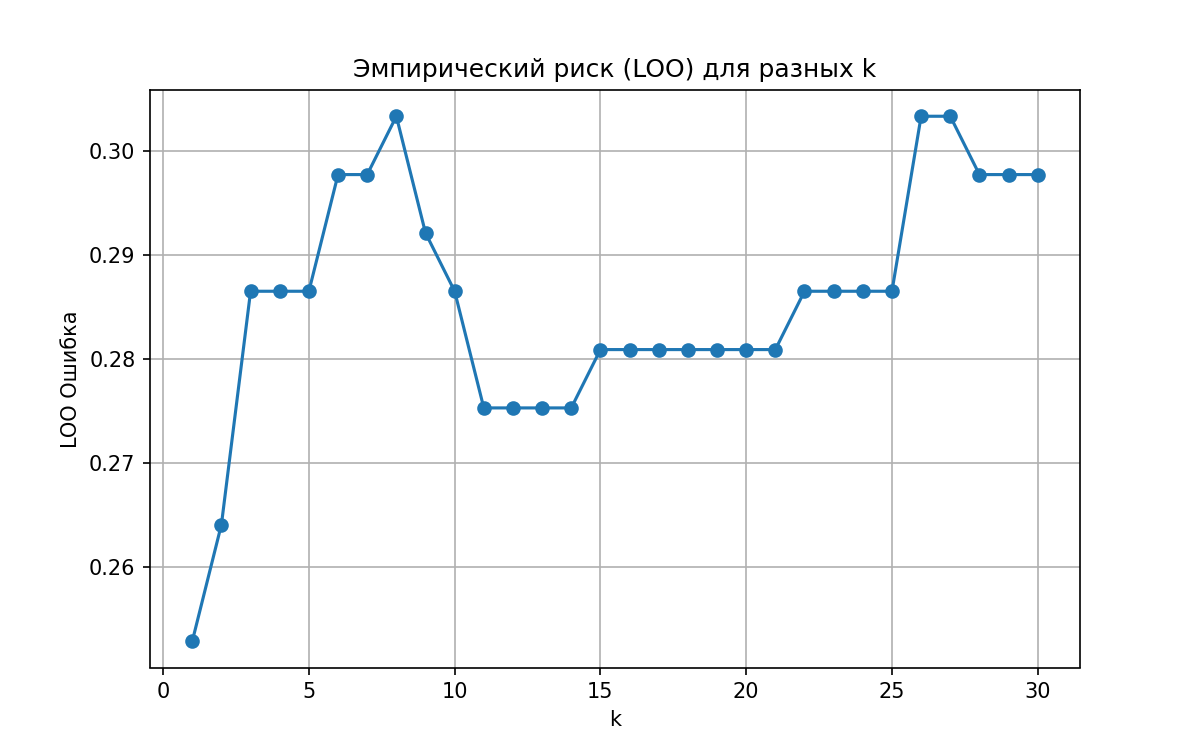
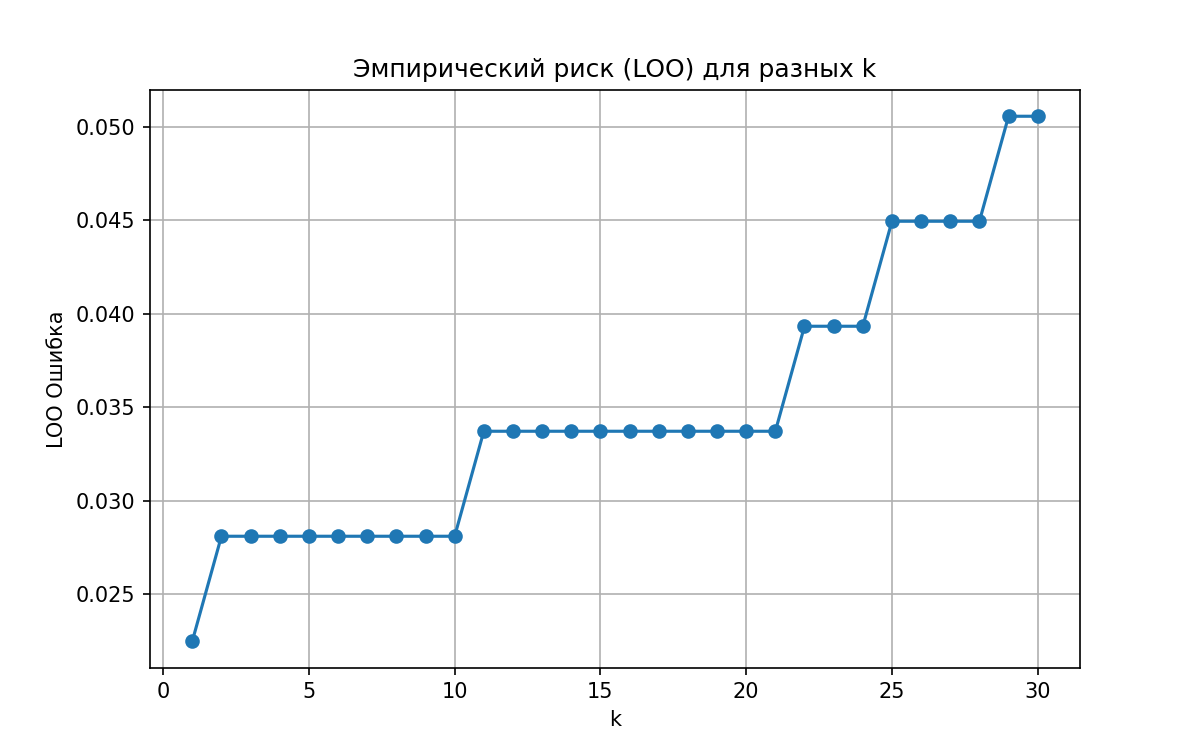
fix

diff --git a/students/botygin-gv/lab2/source/selection.py b/students/botygin-gv/lab2/source/selection.py
@@ -3,42 +3,81 @@ from models import ParzenWindowKNN
 
 
 class PrototypeSelection:
+    """
+    Алгоритм отбора эталонов (Hart's algorithm).
+    """
     def __init__(self):
         pass
 
     def fit(self, X, y):
-        X = np.array(X)
-        y = np.array(y)
-        n = len(X)
-        keep = np.ones(n, dtype=bool)
+        self.X_train = np.array(X)
+        self.y_train = np.array(y)
+        return self._reduce_dataset()
 
-        changed = True
-        while changed:
+    def _reduce_dataset(self):
+        X_reduced, y_reduced = self._initialize_boundary_set()
+        if len(X_reduced) == 0:
+            return self.X_train, self.y_train
+
+        while True:
             changed = False
-            current_indices = np.where(keep)[0]
-            if len(current_indices) <= 1:
-                break
-
-            for idx in reversed(current_indices):
-                # Временное множество без idx
-                temp_keep = keep.copy()
-                temp_keep[idx] = False
-                X_temp = X[temp_keep]
-                y_temp = y[temp_keep]
-
+            for i in range(len(X_reduced) - 1, -1, -1):
+                X_temp = np.delete(X_reduced, i, axis=0)
+                y_temp = np.delete(y_reduced, i)
                 if len(X_temp) == 0:
-                    continue
-
-                # Обучаем модель множестве без элемента idx
-                knn = ParzenWindowKNN(k=1)
-                knn.fit(X_temp, y_temp)
-
-                # Проверяем: правильно ли классифицируется объект idx
-                pred = knn.predict([X[idx]])
-                if pred[0] == y[idx]:
-                    # Удаляем idx
-                    keep[idx] = False
-                    changed = True
                     break
 
-        return X[keep], y[keep]
+                knn_temp = ParzenWindowKNN(k=1)
+                knn_temp.fit(X_temp, y_temp)
+                pred = knn_temp.predict([X_reduced[i]])
+                if pred[0] != y_reduced[i]:
+                    X_reduced = np.delete(X_reduced, i, axis=0)
+                    y_reduced = np.delete(y_reduced, i)
+                    changed = True
+            if not changed:
+                break
+        return X_reduced, y_reduced
+
+    def _initialize_boundary_set(self):
+        """
+        Инициализация набора граничных точек.
+        Для каждой точки из класса A находим ближайшую точку из другого класса B.
+        Добавляем обе точки (A и B).
+        """
+        X_boundary = []
+        y_boundary = []
+        n_samples = self.X_train.shape[0]
+
+        for i in range(n_samples):
+            x_i = self.X_train[i]
+            y_i = self.y_train[i]
+
+            # Находим ближайшую точку из другого класса
+            min_dist = np.inf
+            nearest_other_idx = -1
+
+            for j in range(n_samples):
+                if self.y_train[j] != y_i:
+                    dist = np.linalg.norm(x_i - self.X_train[j])
+                    if dist < min_dist:
+                        min_dist = dist
+                        nearest_other_idx = j
+
+            if nearest_other_idx != -1:
+                X_boundary.append(x_i)
+                y_boundary.append(y_i)
+                X_boundary.append(self.X_train[nearest_other_idx])
+                y_boundary.append(self.y_train[nearest_other_idx])
+
+        if len(X_boundary) > 0:
+            X_boundary = np.array(X_boundary)
+            y_boundary = np.array(y_boundary)
+            # Используем уникальные строки
+            _, unique_indices = np.unique(X_boundary, axis=0, return_index=True)
+            X_boundary = X_boundary[unique_indices]
+            y_boundary = y_boundary[unique_indices]
+        else:
+            X_boundary = np.array(X_boundary)
+            y_boundary = np.array(y_boundary)
+
+        return X_boundary, y_boundary

diff --git a/students/botygin-gv/lab2/source/main.py b/students/botygin-gv/lab2/source/main.py
@@ -7,6 +7,7 @@ from evaluation import loo_cross_validation
 from visualization import plot_risk, visualize_prototype_selection
 from sklearn.datasets import load_wine, load_iris, load_breast_cancer, make_classification
 from sklearn.neighbors import KNeighborsClassifier
+from sklearn.preprocessing import StandardScaler
 
 
 IMAGES_DIR = os.path.join(os.path.dirname(__file__), "images")
@@ -24,6 +25,8 @@ def compare_with_sklearn(X_train, y_train, X_test, y_test):
 def main():
     data = load_wine()
     X, y = data.data, data.target
+    scaler = StandardScaler()
+    X = scaler.fit_transform(X)
 
     # Подбор параметра k методом LOO
     k_range = range(1, min(31, len(X)))
@@ -51,8 +54,8 @@ def main():
     # Отбор эталонов
     print("\nЗапуск алгоритма отбора эталонов...")
     ps = PrototypeSelection()
-    X_reduced, y_reduced = ps.fit(X, y)
-    print(f"Размер исходного набора: {len(X)}")
+    X_reduced, y_reduced = ps.fit(X_train, y_train)
+    print(f"Размер исходного набора: {len(X_train)}")
     print(f"Размер отобранного набора: {len(X_reduced)}")
 
     # Оценка KNN на отобранных эталонах

diff --git a/students/botygin-gv/lab2/source/evaluation.py b/students/botygin-gv/lab2/source/evaluation.py
@@ -4,10 +4,10 @@ from sklearn.model_selection import LeaveOneOut
 def loo_cross_validation(X, y, k_range, model_class, **model_kwargs):
     errors = []
     for k in k_range:
-        knn = model_class(k=k, **model_kwargs)
         loo = LeaveOneOut()
         correct = 0
         for train_index, test_index in loo.split(X):
+            knn = model_class(k=k, **model_kwargs)
             X_train_loo, X_test_loo = X[train_index], X[test_index]
             y_train_loo, y_test_loo = y[train_index], y[test_index]
             knn.fit(X_train_loo, y_train_loo)

diff --git a/students/botygin-gv/lab2/source/models.py b/students/botygin-gv/lab2/source/models.py
@@ -23,7 +23,7 @@ class ParzenWindowKNN:
         for x in X_test:
             distances = np.linalg.norm(self.X_train - x, axis=1)
             sorted_indices = np.argsort(distances)
-            h = distances[sorted_indices[self.k]]
+            h = distances[sorted_indices[self.k+1]]
 
             if h == 0:
                 nearest_idx = np.argmin(distances)
